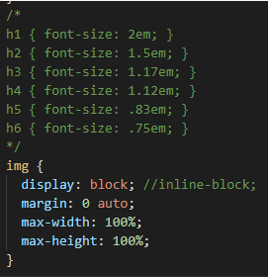
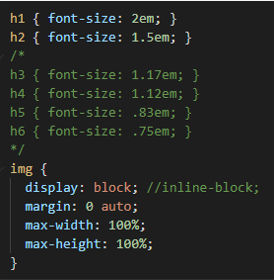
20201124
theme h1 h2 update

diff --git a/assets/css/theme.scss b/assets/css/theme.scss
@@ -50,9 +50,10 @@ body {
 .main-page {
   width: 75%;
 }
-/*
+
 h1 { font-size: 2em; }
 h2 { font-size: 1.5em; }
+/*
 h3 { font-size: 1.17em; }
 h4 { font-size: 1.12em; }
 h5 { font-size: .83em; }

diff --git a/_posts/2020-11-24-Theme_Change.md b/_posts/2020-11-24-Theme_Change.md
@@ -65,9 +65,11 @@ tag : [blog]
 
  그리고 h3의 글자 크기가 이상하길래 홈페이지에서 f12눌러보니 이 theme를 만들었던 분이 고의로 글자크기를 줄여놨다.
 
- 그래서 아래와 같이 다 주석을 때려버리고 넘기니 원래대로 돌아와서 만족하고 있는 상태.
+ 그래서 아래와 같이 일부 주석을 때려버리고 넘기니 원래대로 돌아와서 만족하고 있는 상태.
 
  참고로 h3의 원래 font size는 1.75rem.
+
+ h1과 h2를 남겨둔 이유는, theme에서 몇몇 작업을 할 때 h1과 h2를 theme에 맞춘다고 일부러 줄인 것 같다. 난 어짜피 이 post내부의 contents에서는 h3만을 주로 사용하기때문에 다른 것들은 별 필요없다고 생각해서 이와 같이 처리.
 
 ![img2](https://raw.githubusercontent.com/ReaperMaKNaE/reapermaknae.github.io/main/assets/img/20201124-2.png)
 
